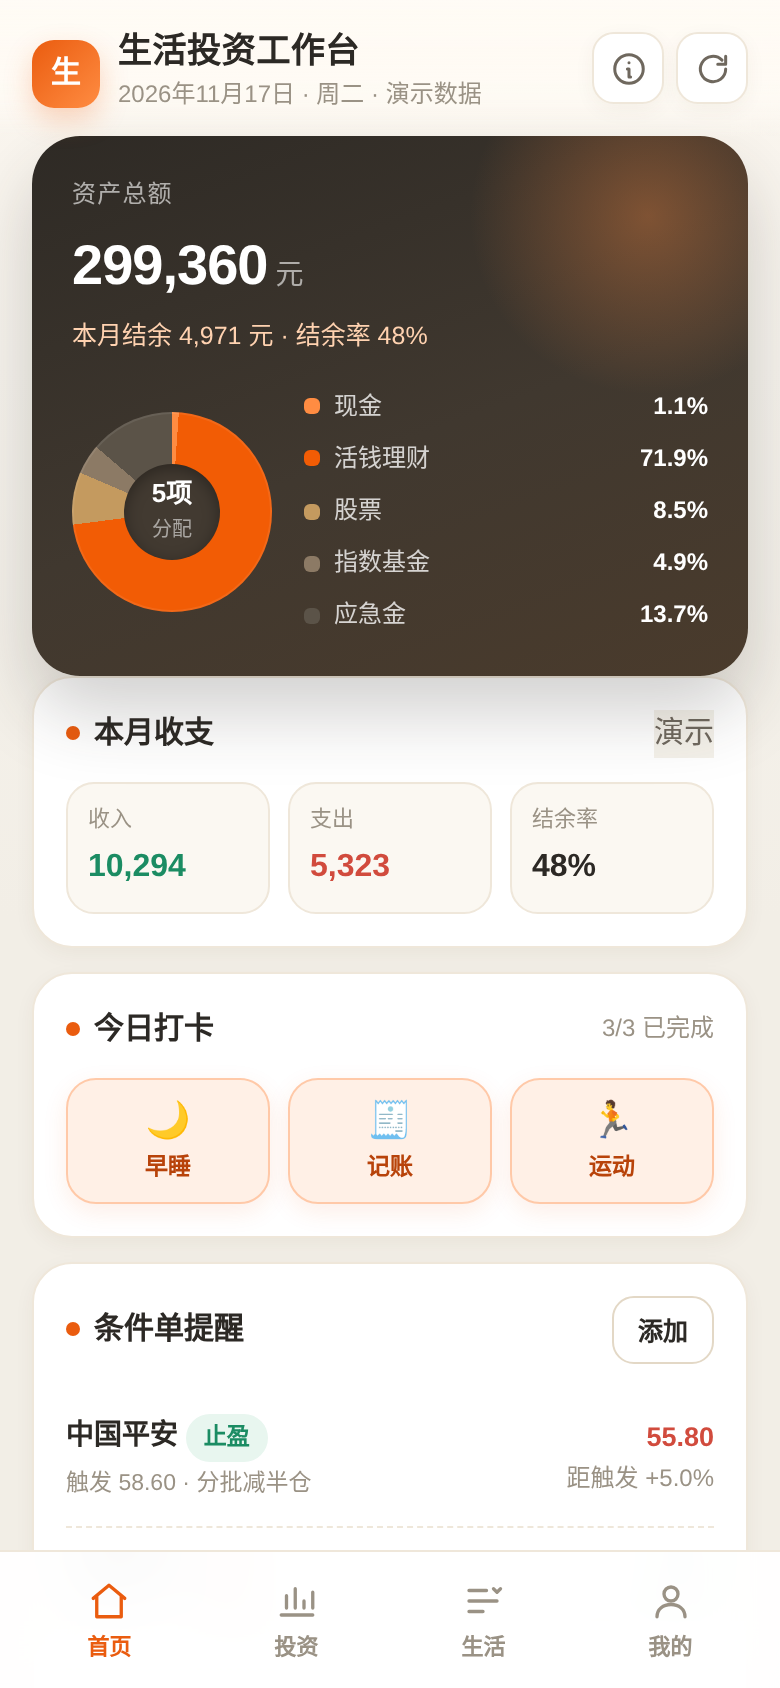
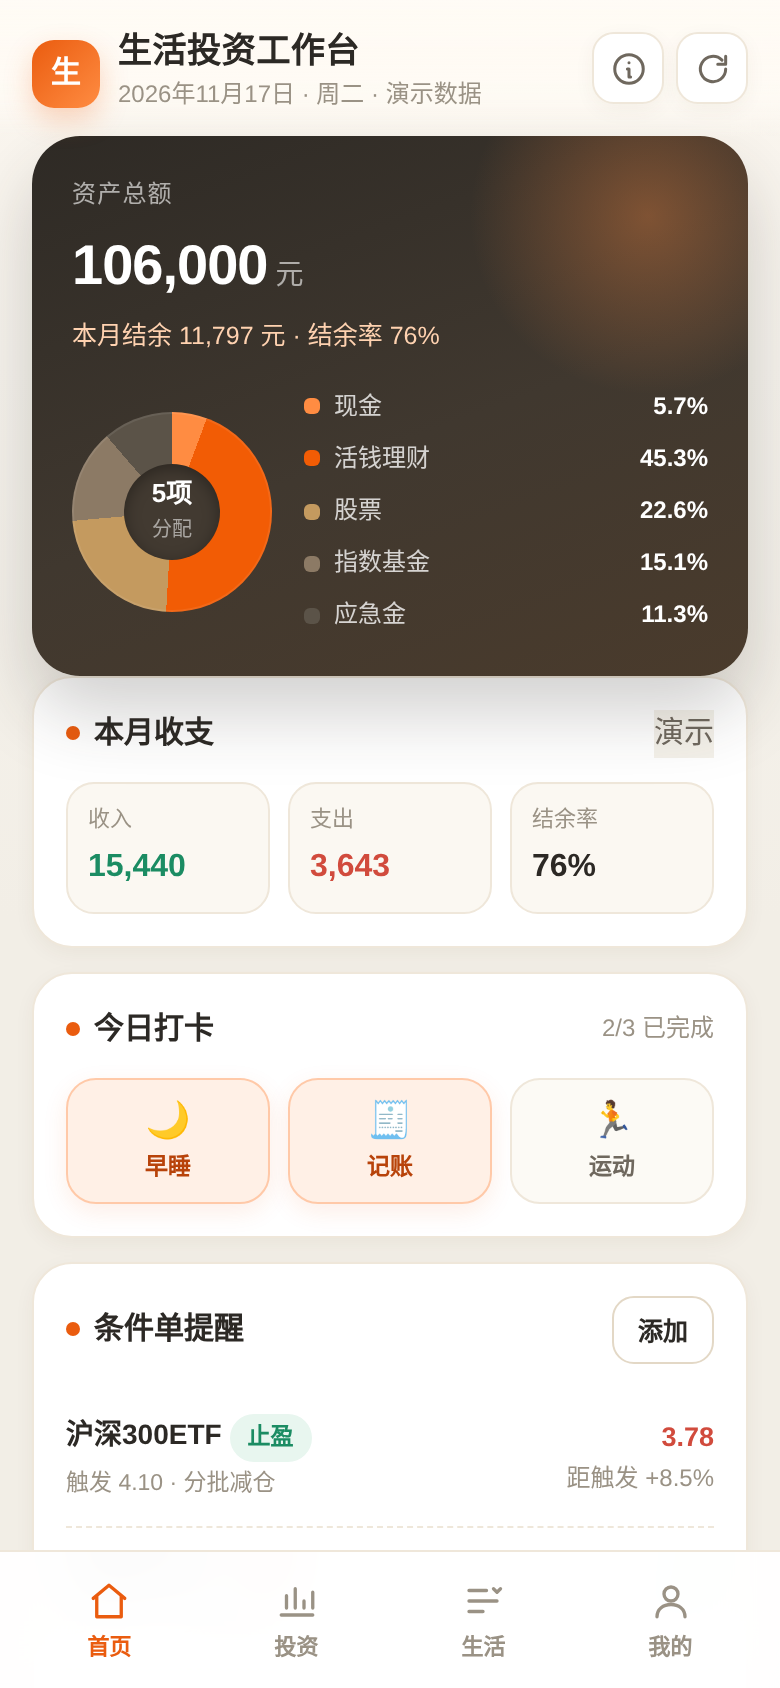
清理演示数据：移除全部个人痕迹，改用通用示例数据

diff --git a/life-invest-workbench.html b/life-invest-workbench.html
@@ -387,47 +387,48 @@ function demoData(){
     const c=pick(cats);
     const d=new Date(monthStart.getTime()+Math.floor(rnd(0,(t-monthStart)/DAY+1))*DAY);
     if(d>t) continue;
-    const amt=c[0]==='工资'?rnd(8800,12000):c[0]==='房租'?3800:Math.round(rnd(18,380));
+    const amt=c[0]==='工资'?rnd(7000,8000):c[0]==='房租'?2600:Math.round(rnd(15,260));
     ledger.push({id:uid(),date:ymd(d),cat:c[1],note:c[0],amount:Math.round(amt),type:c[0]==='工资'||c[0]==='基金定投'?'in':'out'});
   }
   // 保证演示月份里有一条工资，不然支出随手一凑就成了负数结余
   if(!ledger.some(x=>x.note==='工资')){
-    ledger.push({id:uid(),date:ymd(new Date(monthStart.getTime()+3*DAY)),cat:'收入',note:'工资',amount:Math.round(rnd(9800,11800)),type:'in'});
+    ledger.push({id:uid(),date:ymd(new Date(monthStart.getTime()+3*DAY)),cat:'收入',note:'工资',amount:Math.round(rnd(7200,7800)),type:'in'});
   }
   ledger.sort((a,b)=>b.date.localeCompare(a.date));
   return {
     assets:[
-      {name:'现金',amount:3260,color:'#FF8C42'},
-      {name:'活钱理财',amount:215200,color:'#F25C05'},
-      {name:'股票',amount:25300,color:'#C49A5F'},
-      {name:'指数基金',amount:14600,color:'#8C7A65'},
-      {name:'应急金',amount:41000,color:'#5B5348'}
+      {name:'现金',amount:6000,color:'#FF8C42'},
+      {name:'活钱理财',amount:48000,color:'#F25C05'},
+      {name:'股票',amount:24000,color:'#C49A5F'},
+      {name:'指数基金',amount:16000,color:'#8C7A65'},
+      {name:'应急金',amount:12000,color:'#5B5348'}
     ],
     holdings:[
-      {id:uid(),code:'601318',name:'中国平安',shares:200,cost:52.4,price:55.8},
-      {id:uid(),code:'510300',name:'沪深300ETF',shares:1200,cost:3.92,price:4.05},
-      {id:uid(),code:'512480',name:'半导体ETF',shares:600,cost:1.08,price:1.02},
-      {id:uid(),code:'600900',name:'长江电力',shares:300,cost:27.6,price:28.9}
+      {id:uid(),code:'510300',name:'沪深300ETF',shares:1000,cost:3.60,price:3.78},
+      {id:uid(),code:'510500',name:'中证500ETF',shares:800,cost:5.40,price:5.56},
+      {id:uid(),code:'510880',name:'红利ETF',shares:600,cost:2.85,price:2.96},
+      {id:uid(),code:'159915',name:'创业板ETF',shares:500,cost:2.05,price:1.98}
     ],
     orders:[
-      {id:uid(),code:'601318',name:'中国平安',trigger:58.6,dir:'止盈',note:'分批减半仓'},
-      {id:uid(),code:'601318',name:'中国平安',trigger:50.2,dir:'止损',note:'跌破就出'},
-      {id:uid(),code:'600900',name:'长江电力',trigger:27.2,dir:'买入',note:'到价挂条件单'}
+      {id:uid(),code:'510300',name:'沪深300ETF',trigger:4.10,dir:'止盈',note:'分批减仓'},
+      {id:uid(),code:'510300',name:'沪深300ETF',trigger:3.40,dir:'止损',note:'跌破减仓'},
+      {id:uid(),code:'510880',name:'红利ETF',trigger:2.75,dir:'买入',note:'到价提醒'}
     ],
     plans:[
-      {id:uid(),name:'红利低波',amount:500,day:20,status:'monthly'},
-      {id:uid(),name:'纳指100',amount:400,day:20,status:'monthly'},
-      {id:uid(),name:'A500',amount:300,day:20,status:'monthly'}
+      {id:uid(),name:'沪深300定投',amount:500,day:10,status:'monthly'},
+      {id:uid(),name:'中证500定投',amount:300,day:10,status:'monthly'},
+      {id:uid(),name:'债券ETF定投',amount:200,day:10,status:'monthly'}
     ],
     ledger,
     todos:[
-      {id:uid(),text:'本周内把体检预约掉',seg:'本周',done:false},
-      {id:uid(),text:'给家里寄一份节日礼盒',seg:'本周',done:false},
-      {id:uid(),text:'读完《刻意练习》第3章',seg:'学习',done:false},
-      {id:uid(),text:'周末补一次腿部训练',seg:'健康',done:false},
-      {id:uid(),text:'把闲置的旧设备挂到二手平台',seg:'日常',done:true},
-      {id:uid(),text:'更新保险续费提醒',seg:'其他',done:false},
-      {id:uid(),text:'整理9月账单',seg:'日常',done:true}
+      {id:uid(),text:'整理本周账单',seg:'日常',done:false},
+      {id:uid(),text:'给绿植浇水',seg:'日常',done:false},
+      {id:uid(),text:'清理下载文件夹',seg:'日常',done:true},
+      {id:uid(),text:'备份手机照片',seg:'其他',done:false},
+      {id:uid(),text:'看一节线上课程',seg:'学习',done:false},
+      {id:uid(),text:'更新软件版本',seg:'其他',done:false},
+      {id:uid(),text:'列下周采购清单',seg:'本周',done:false},
+      {id:uid(),text:'清洗运动水杯',seg:'健康',done:false}
     ],
     habits:habitDates,
     budgets:[
@@ -695,7 +696,7 @@ document.querySelectorAll('[data-add]').forEach(btn=>{
     const kind=btn.dataset.add;
     if(kind==='todo'){
       sheet('添加待办',`
-        <div class="field"><label>要做什么</label><input id="f-text" placeholder="例如：周三前把体检预约掉"></div>
+        <div class="field"><label>要做什么</label><input id="f-text" placeholder="例如：整理本周账单"></div>
         <div class="field"><label>分段</label><select id="f-seg">${['本周','日常','健康','学习','其他'].map(s=>`<option>${s}</option>`).join('')}</select></div>`,
         m=>{
           const text=m.querySelector('#f-text').value.trim();
